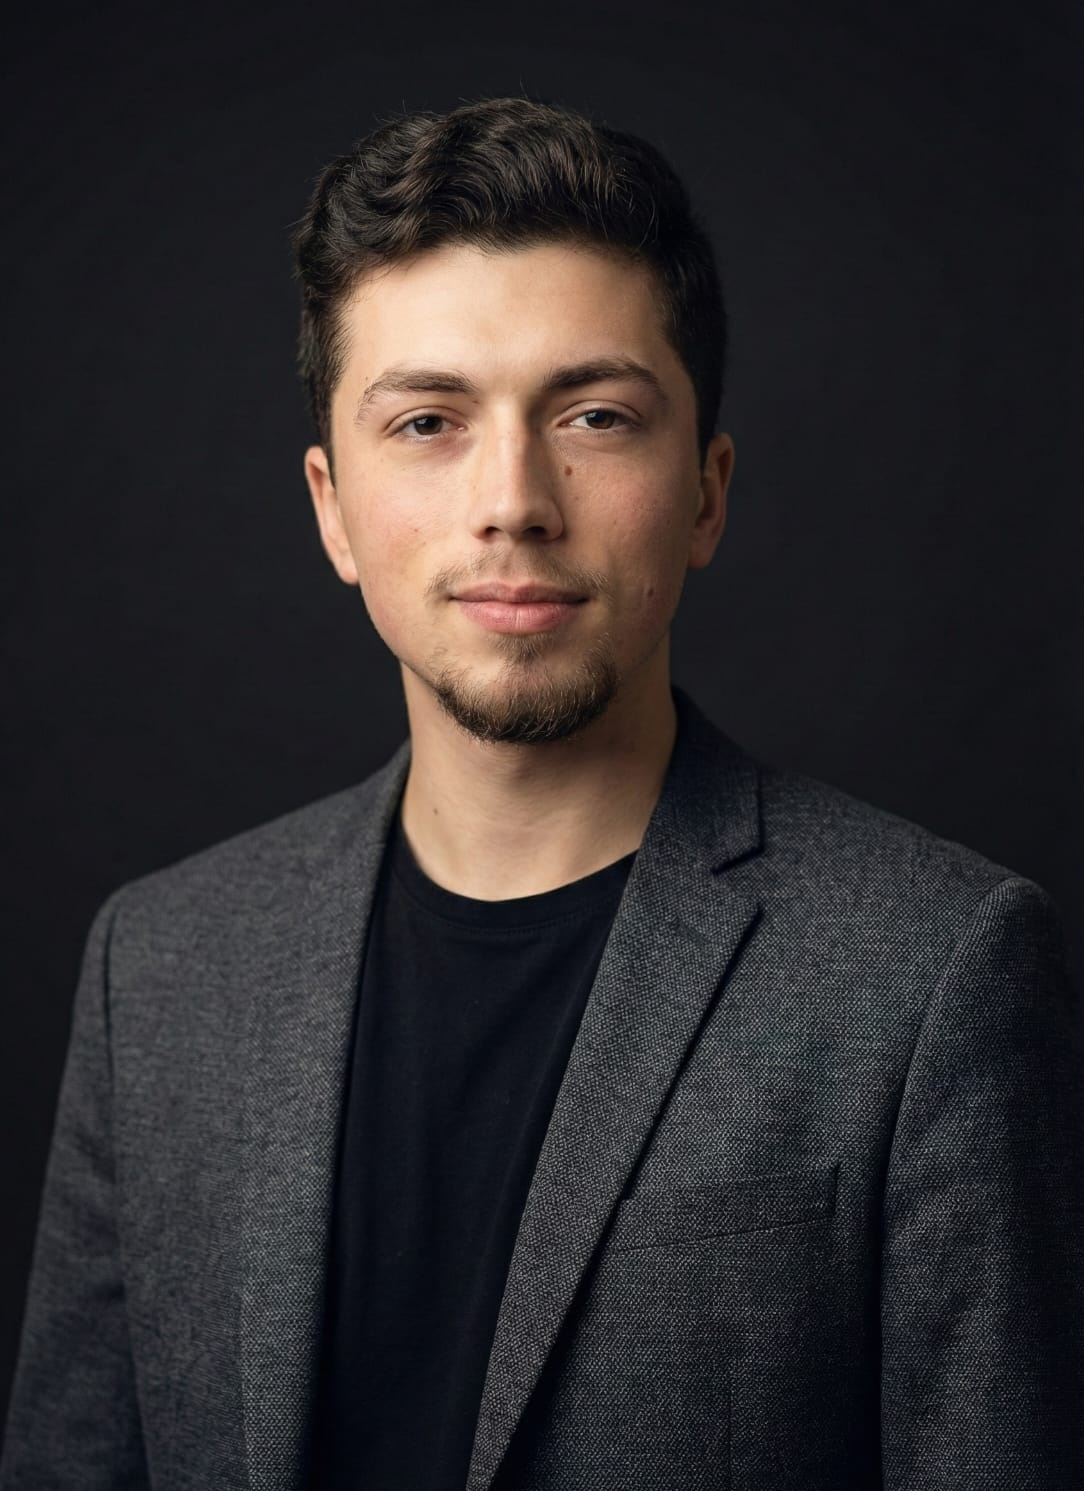
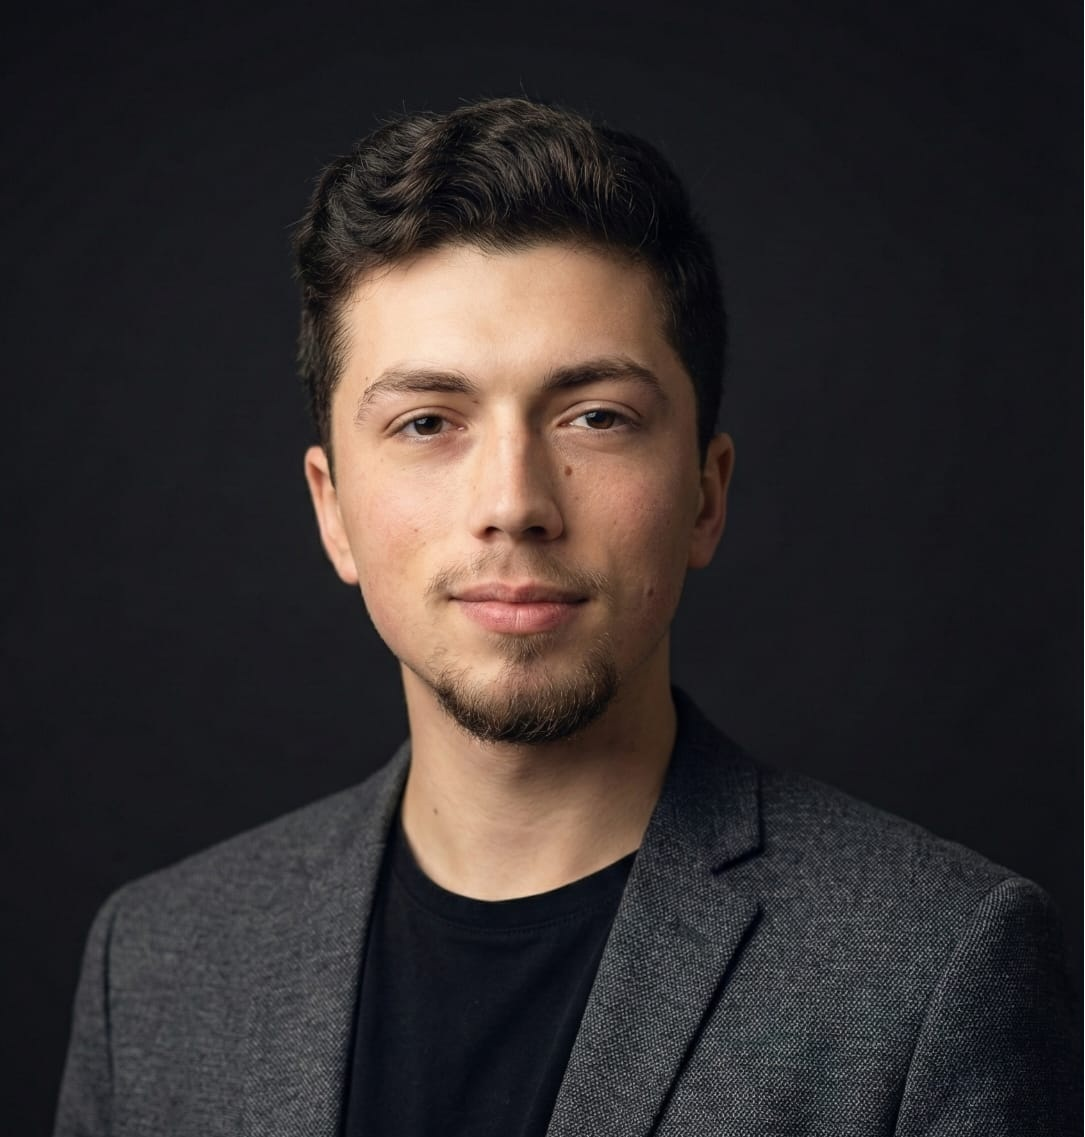
a

diff --git a/index.html b/index.html
@@ -25,9 +25,9 @@
     </nav>
 
     <section id="hakkında" class="t-ekran">
-        <div>
-            <div>
-                <div>
+        <div class="hak-icerik">
+            <div class="hak-izgara">
+                <div class="foto-alani">
                     <img src="pFoto.jpeg" alt="Profil" class="profil-foto">
                 </div>
                 <div class="metin-alan">

diff --git a/ana.css b/ana.css
@@ -56,11 +56,13 @@ body {
 }
 .link-liste a:hover { color: var(--ana-renk); }
 
+.t-ekran { min-height: 100vh; padding: 120px 10% 60px; }
 .profil-foto { 
     width: 250px; height: 250px; border-radius: 15px; 
     object-fit: cover; 
-    
+    border: 2px solid var(--ana-renk); 
 }
+
 
 
 
